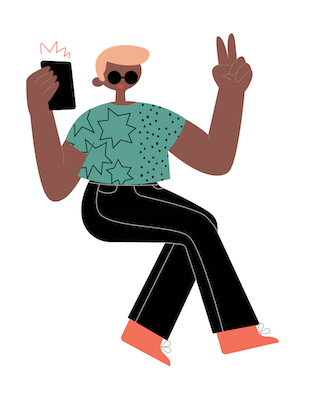
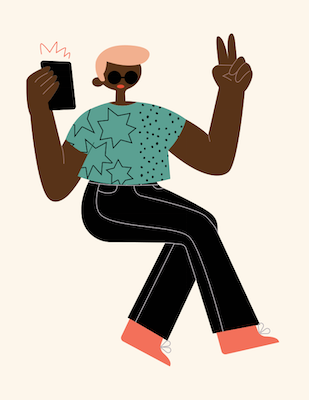
redesign

Changed region(s): [[0.5534, 0.09, 0.8155, 0.45], [0.0583, 0.15, 0.2913, 0.51], [0.2913, 0.15, 0.466, 0.27]]

diff --git a/src/styles/PopUpMessage.module.css b/src/styles/PopUpMessage.module.css
@@ -1,5 +1,5 @@
 .wrapper {
-  @apply w-[55vw] h-[65vh] bg-white fixed z-10 flex flex-col items-center  justify-center;
+  @apply w-[55vw] h-[65vh] bg-[#fdf6eb] fixed z-10 flex flex-col items-center  justify-center;
 }
 
 .image {
